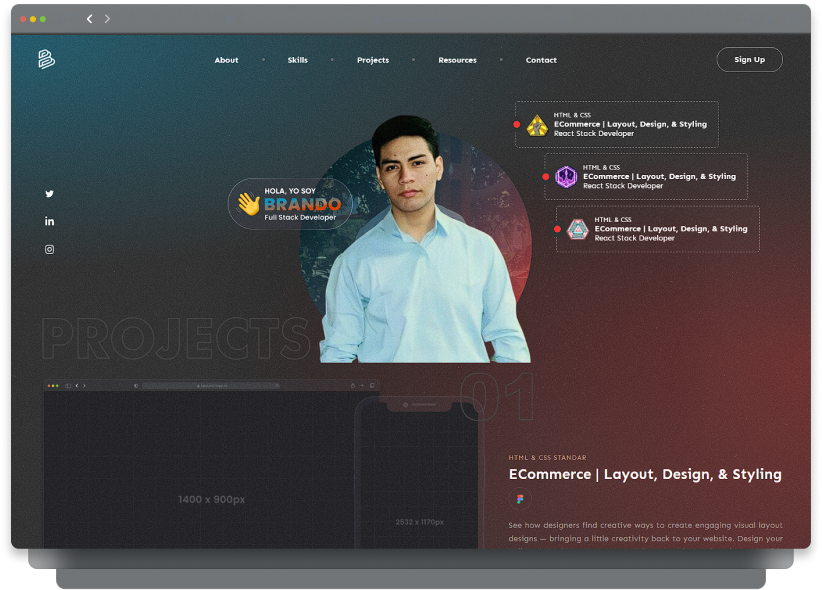
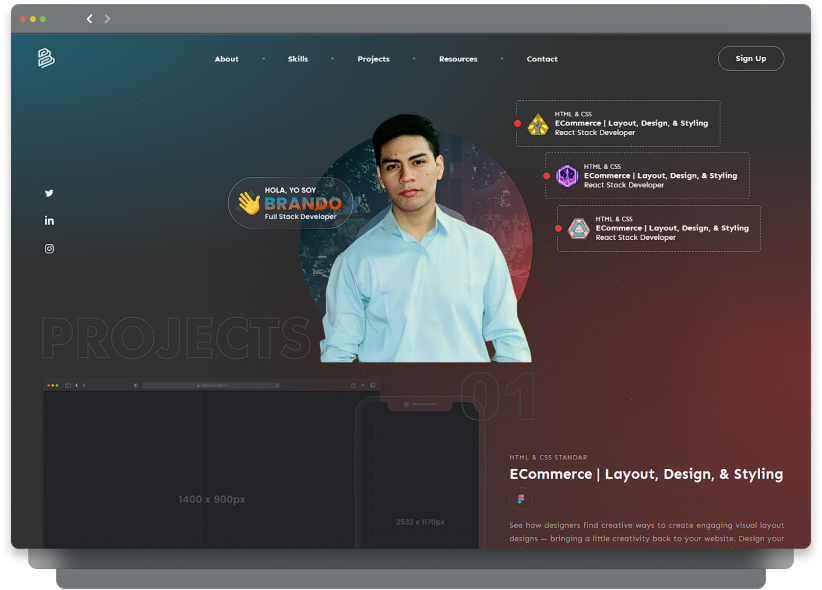
subo cambios

diff --git a/style.css b/style.css
@@ -1,11 +1,11 @@
         .container{
-            padding-left: 20px;
-            padding-right: 20px;
+            padding-left: 10px;
+            padding-right: 10px;
         }
         .header {
             display: flex;
-            padding-left: 20px;
-            padding-right: 20px;
+            padding-left: 10px;
+            padding-right: 10px;
             padding-top: 10px;
             padding-bottom: 10px;
             justify-content: space-between;

diff --git a/responsibe.css b/responsibe.css
@@ -50,8 +50,7 @@
       top: 0;
       background-image: url("./assets/img-bg/noise.gif");
       z-index: 1;
-      opacity: 0.04;
-      animation: Noise-module--flicker--2Xqie 4s steps(10) infinite;
+      opacity: 0.03;
   }         
   .portfolio-section{
       background:
